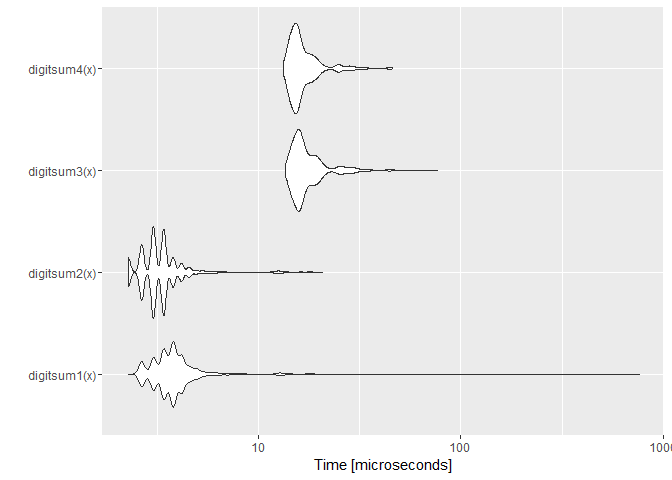
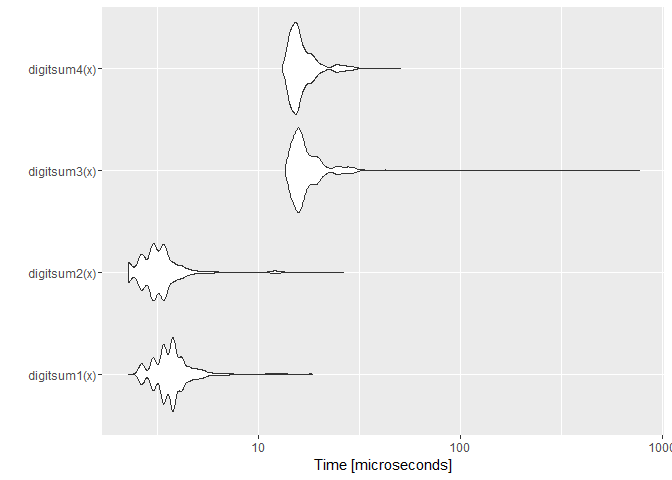
Add author Ivan Calandra

diff --git a/digitsum_benchmark.md b/digitsum_benchmark.md
@@ -34,7 +34,7 @@ Function Definitions
 
 ### Variant 1
 
-Suggested by [user2030503](http://stackoverflow.com/users/2030503/user2030503) in his question on [stackoverflow](http://stackoverflow.com/q/18675285/3817004):
+Suggested by [user2030503](http://stackoverflow.com/users/2030503/user2030503) in his question on [stackoverflow](http://stackoverflow.com/q/18675285/3817004) and by Ivan Calandra in the [R-help mailing list](https://stat.ethz.ch/pipermail/r-help/2011-March/270713.html):
 
 ``` r
 digitsum1 <- function(x) sum(as.numeric(unlist(strsplit(as.character(x), split = ""))))
@@ -132,11 +132,11 @@ bm1 <- microbenchmark(
 )
 print(bm1)
 #> Unit: microseconds
-#>          expr    min      lq      mean median     uq     max neval
-#>  digitsum1(x)  2.266  3.3980  4.731677  3.776  4.154 760.072  1000
-#>  digitsum2(x)  2.266  2.8325  3.497381  3.022  3.399  20.768  1000
-#>  digitsum3(x) 13.593 15.4810 18.044053 16.237 18.879  76.650  1000
-#>  digitsum4(x) 13.216 14.7260 16.981901 15.482 17.746  45.688  1000
+#>          expr    min     lq      mean median     uq     max neval
+#>  digitsum1(x)  2.266  3.399  3.878339  3.776  4.154  18.502  1000
+#>  digitsum2(x)  2.266  2.644  3.390129  3.022  3.399  26.432  1000
+#>  digitsum3(x) 13.593 15.481 18.510736 16.237 18.502 765.735  1000
+#>  digitsum4(x) 13.216 14.726 16.767082 15.482 17.369  50.596  1000
 autoplot(bm1)
 ```
 
@@ -155,15 +155,15 @@ bm2 <- microbenchmark(
 print(bm2)
 #> Unit: milliseconds
 #>                  expr       min        lq      mean    median        uq
-#>  sapply(x, digitsum1)  38.76173  40.48916  41.67979  41.15729  42.27059
-#>  sapply(x, digitsum2)  34.60758  35.20076  36.45063  36.69485  37.48249
-#>  sapply(x, digitsum3) 161.71991 164.72395 175.50948 175.29603 182.94224
-#>  sapply(x, digitsum4) 158.21785 166.25278 171.85668 170.72881 172.61917
+#>  sapply(x, digitsum1)  39.11062  40.45707  43.43619  41.36251  43.43392
+#>  sapply(x, digitsum2)  34.14882  34.63968  36.17194  36.27404  36.62689
+#>  sapply(x, digitsum3) 161.28796 172.77927 178.07688 177.59324 179.13245
+#>  sapply(x, digitsum4) 161.01346 163.24308 168.92798 169.92702 172.11283
 #>        max neval
-#>   47.39512    10
-#>   37.89858    10
-#>  201.76089    10
-#>  200.11124    10
+#>   59.28591    10
+#>   38.63675    10
+#>  213.57691    10
+#>  180.60539    10
 autoplot(bm2)
 ```
 
